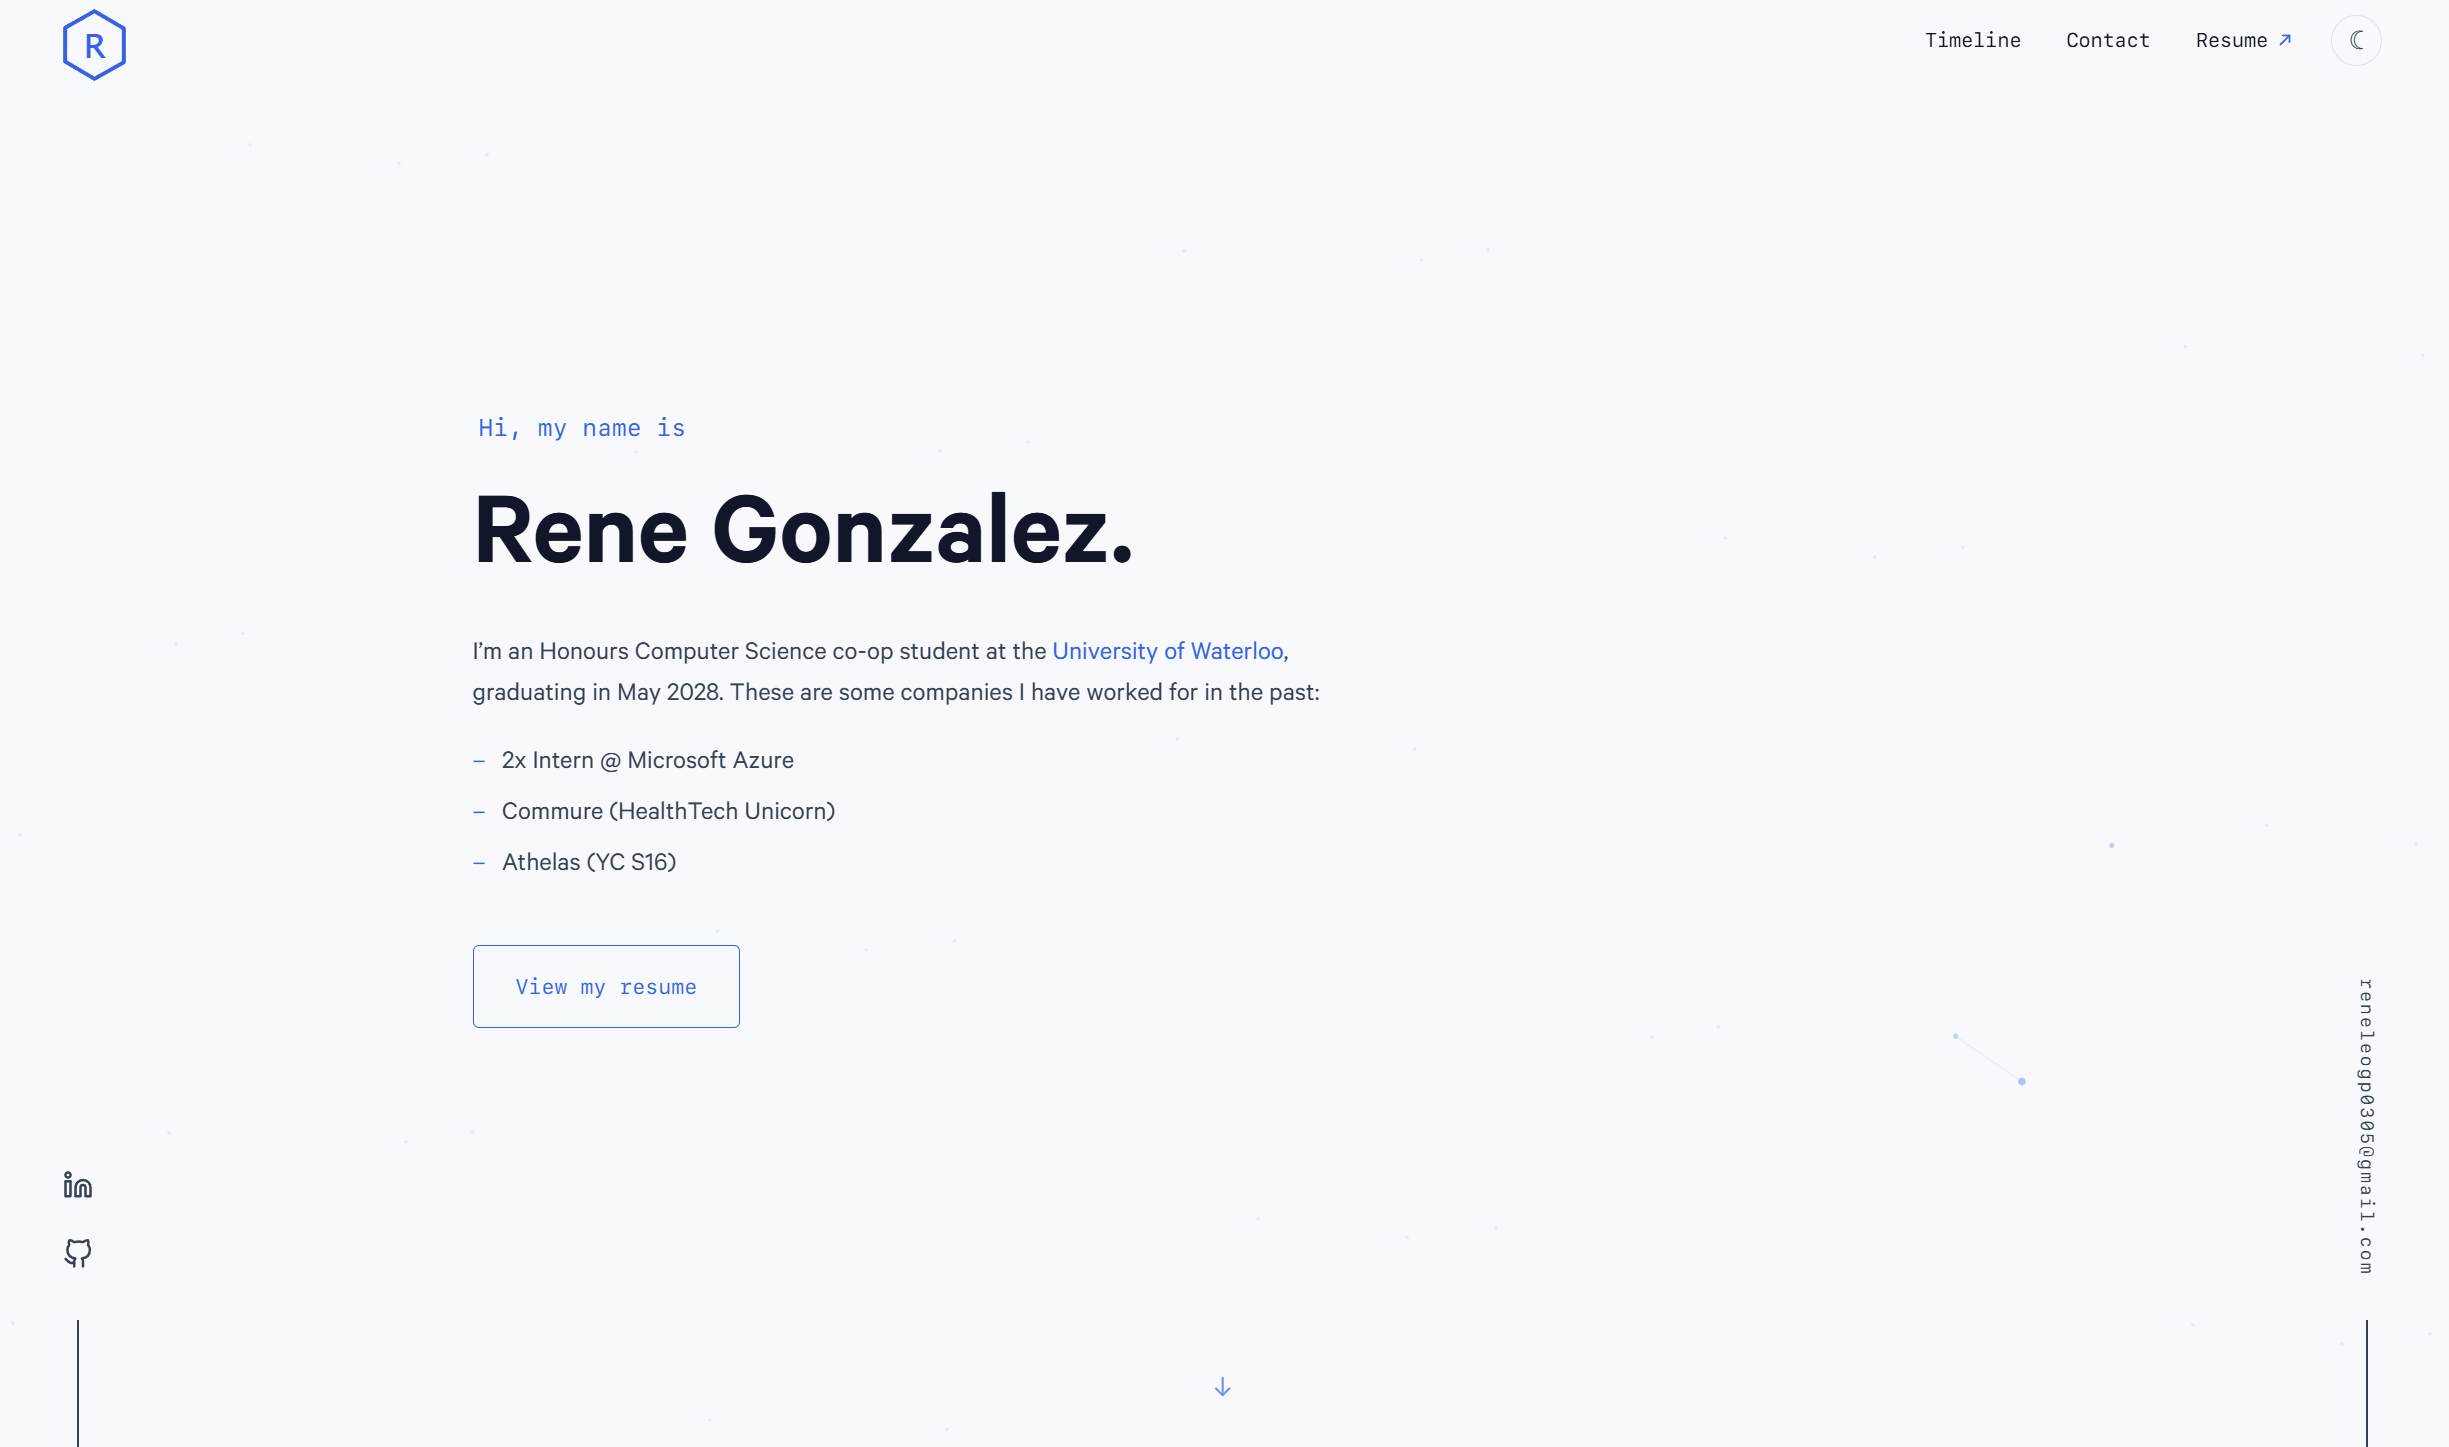
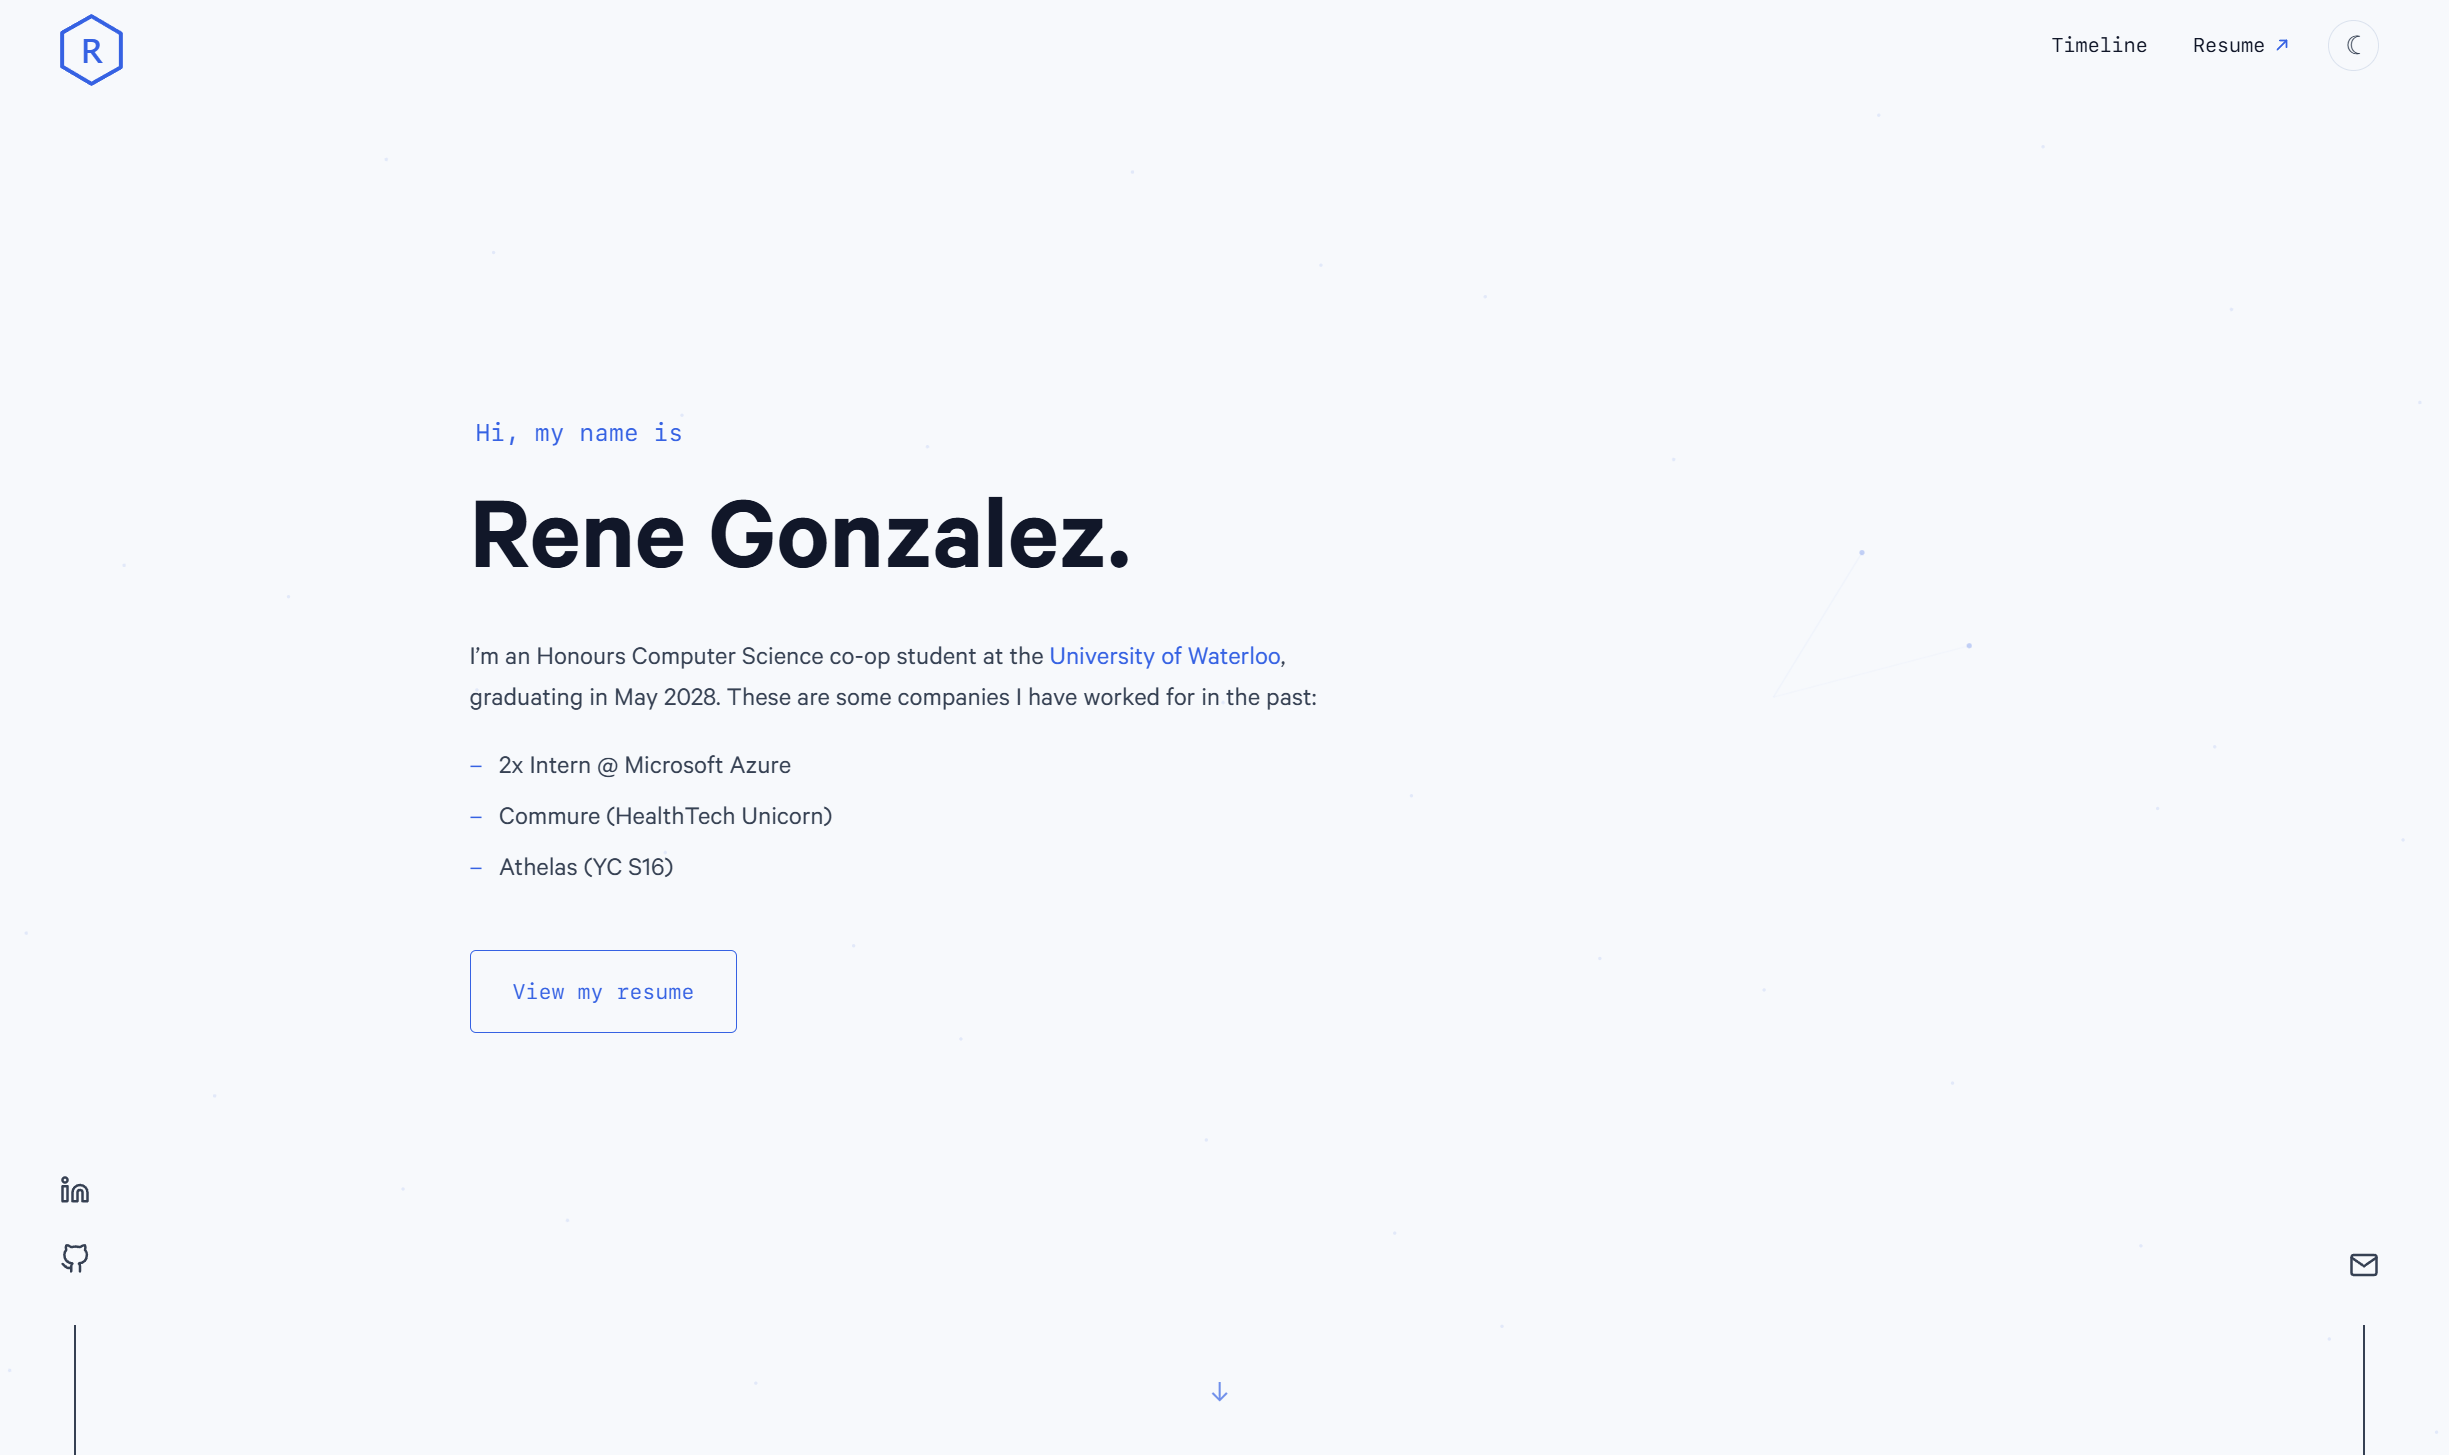
commit the new readme

diff --git a/README.md b/README.md
@@ -1,74 +1,39 @@
 <div align="center">
-  <img alt="Logo" src="https://raw.githubusercontent.com/reneleogp/personal-website-v2/main/src/images/logo.png" width="100" />
+   <img src="./src/images/favicon.svg" alt="Rene Gonzalez logo" width="88" />
+   <h1>Rene Gonzalez</h1>
+   <p>Personal portfolio built with Gatsby and React.</p>
+   <p><a href="https://reneleo.com">reneleo.com</a></p>
 </div>
-<h1 align="center">
-  Personal Website v2
-</h1>
-<div align="center">
 
-![Gatsby](https://img.shields.io/badge/Gatsby-663399.svg?style=for-the-badge&logo=Gatsby&logoColor=white)
-![React](https://img.shields.io/badge/React-61DAFB.svg?style=for-the-badge&logo=React&logoColor=black)
-![Node.js](https://img.shields.io/badge/Node.js-339933.svg?style=for-the-badge&logo=nodedotjs&logoColor=white)
-![Netlify](https://img.shields.io/badge/netlify-%23000000.svg?style=for-the-badge&logo=netlify&logoColor=#00C7B7)
+<a href="https://reneleo.com">
+   <img src="./static/og.png" alt="Rene Gonzalez portfolio preview" />
+</a>
 
-</div>
-<p align="center">
-  <a href="https://app.netlify.com/sites/reneleo/deploys" target="_blank">
-    <img src="https://api.netlify.com/api/v1/badges/1963b488-7b78-48c9-9e2d-6fb5e47ab3af/deploy-status" alt="Netlify Status" />
-  </a>
-</p>
+## Stack
 
-![demo](https://raw.githubusercontent.com/reneleogp/personal-website-v2/main/src/images/demo.png)
+- Gatsby 3
+- React 17
+- styled-components
+- Netlify
 
-## 🛠 Installation & Set Up
+## Development
 
-1. Install the Gatsby CLI
+Use the Node version in `.nvmrc` and install dependencies with Yarn.
 
-   ```sh
-   npm install -g gatsby-cli
-   ```
+```sh
+nvm install
+nvm use
+yarn install --frozen-lockfile
+yarn develop
+```
 
-2. Install and use the correct version of Node using [NVM](https://github.com/nvm-sh/nvm)
+The development site runs at `http://localhost:8000`.
 
-   ```sh
-   nvm install
-   ```
+## Production
 
-3. Install dependencies
+Build and preview the static site locally:
 
-   ```sh
-   yarn
-   ```
-
-4. Start the development server
-
-   ```sh
-   npm start
-   ```
-
-## 🚀 Building and Running for Production
-
-1. Generate a full static production build
-
-   ```sh
-   npm run build
-   ```
-
-2. Preview the site as it will appear once deployed
-
-   ```sh
-   npm run serve
-   ```
-
-## 🎨 Color Reference
-
-| Color          | Hex                                                                |
-| -------------- | ------------------------------------------------------------------ |
-| Navy           | ![#0a192f](https://via.placeholder.com/10/0a192f?text=+) `#0a192f` |
-| Light Navy     | ![#112240](https://via.placeholder.com/10/0a192f?text=+) `#112240` |
-| Lightest Navy  | ![#233554](https://via.placeholder.com/10/303C55?text=+) `#233554` |
-| Slate          | ![#8892b0](https://via.placeholder.com/10/8892b0?text=+) `#8892b0` |
-| Light Slate    | ![#a8b2d1](https://via.placeholder.com/10/a8b2d1?text=+) `#a8b2d1` |
-| Lightest Slate | ![#ccd6f6](https://via.placeholder.com/10/ccd6f6?text=+) `#ccd6f6` |
-| White          | ![#e6f1ff](https://via.placeholder.com/10/e6f1ff?text=+) `#e6f1ff` |
-| Green          | ![#64ffda](https://via.placeholder.com/10/64ffda?text=+) `#64ffda` |
+```sh
+yarn build
+yarn serve
+```
